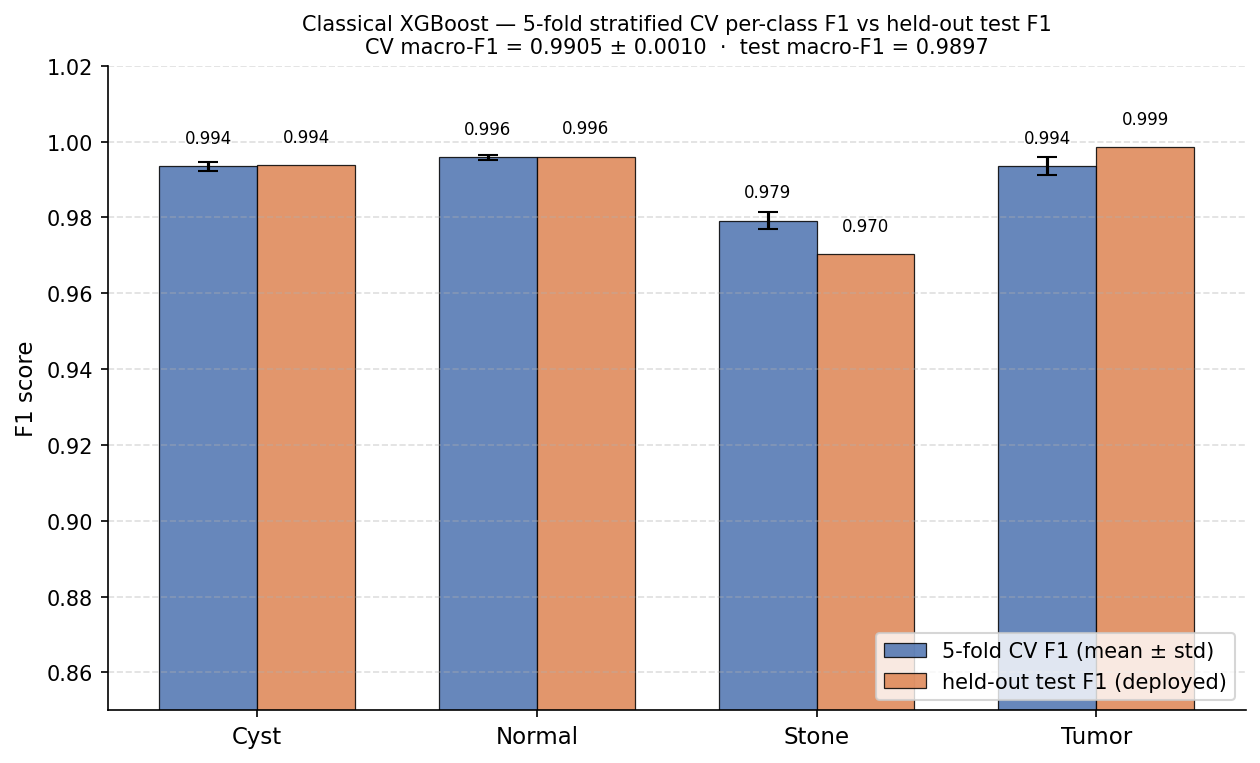
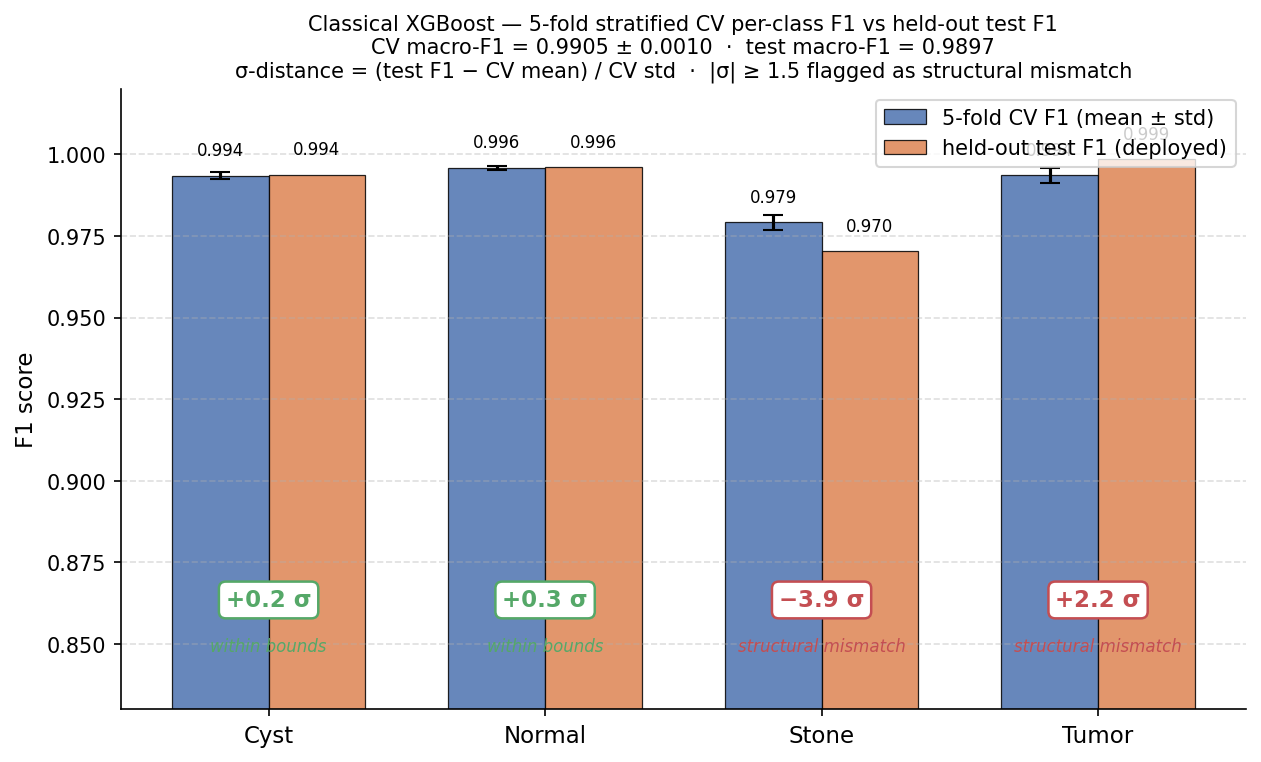
Diagnostics: Cohen's d on filename-proximity + sigma annotations on per-class CV

diff --git a/analysis/diag_filename_proximity.py b/analysis/diag_filename_proximity.py
@@ -159,11 +159,38 @@ def main() -> None:
             u, p = float("nan"), 1.0
 
         ratio = float(nearest_arr.mean() / max(random_arr.mean(), 1e-12))
-        verdict = (
-            "strong leakage signal" if ratio >= 1.5
-            else "moderate signal"   if ratio >= 1.05
-            else "no signal"
-        )
+
+        # Cohen's d (with pooled std; using sample std for compatibility)
+        n1 = len(nearest_arr)
+        n2 = len(random_arr)
+        s1 = float(nearest_arr.std(ddof=1)) if n1 > 1 else 0.0
+        s2 = float(random_arr.std(ddof=1))  if n2 > 1 else 0.0
+        pooled = float(np.sqrt(((n1 - 1) * s1**2 + (n2 - 1) * s2**2) / max(n1 + n2 - 2, 1)))
+        cohens_d = float((nearest_arr.mean() - random_arr.mean()) / max(pooled, 1e-12))
+
+        # Probability of superiority (CLES) — fraction of (nearest, random) pairs
+        # where nearest > random. Computed cheaply via the U statistic.
+        # P(X > Y) = U / (n1 * n2) for one-sided U
+        cles = float(u / max(n1 * n2, 1)) if not np.isnan(u) else float("nan")
+
+        # Saturation-aware framing: how much of the "remaining similarity room"
+        # above the random-baseline mean does nearest-by-ID claim?
+        random_to_ceiling = max(1.0 - random_arr.mean(), 1e-12)
+        nearest_above_random = nearest_arr.mean() - random_arr.mean()
+        saturation_room_used = float(nearest_above_random / random_to_ceiling)
+
+        # Effect-size verdict: combine ratio (saturation-aware) AND Cohen's d
+        # (statistical effect size). A reviewer who weighs Cohen's d should see
+        # the large statistical effect; a reviewer who weighs absolute saturation
+        # should see the small absolute gap.
+        if ratio >= 1.5 and cohens_d >= 0.8:
+            verdict = "strong leakage signal (large effect, big absolute gap)"
+        elif cohens_d >= 0.8 and ratio < 1.05:
+            verdict = "saturated: large statistical effect, small absolute gap"
+        elif ratio >= 1.05:
+            verdict = "moderate signal"
+        else:
+            verdict = "no signal"
 
         per_class_stats[c_name] = {
             "n_test": int(n_test_c),
@@ -174,6 +201,9 @@ def main() -> None:
             "random_std_sim":   float(random_arr.std()),
             "ratio":            ratio,
             "delta_mean_sim":   float(nearest_arr.mean() - random_arr.mean()),
+            "cohens_d":         cohens_d,
+            "cles_prob_nearest_gt_random": cles,
+            "saturation_room_used": saturation_room_used,
             "mannwhitney_u":    float(u),
             "mannwhitney_pvalue": float(p),
             "mean_id_gap_to_nearest_K": float(np.mean(nearest_id_gap_per_test)),
@@ -183,20 +213,49 @@ def main() -> None:
         random_dists[c_name]  = random_arr
 
         print(f"[{c_name}]  n_test={n_test_c}  "
-              f"nearest_sim={nearest_arr.mean():.4f}+-{nearest_arr.std():.4f}  "
-              f"random_sim={random_arr.mean():.4f}+-{random_arr.std():.4f}  "
-              f"ratio={ratio:.3f}  p={p:.2e}  verdict={verdict}")
+              f"nearest={nearest_arr.mean():.4f}+-{nearest_arr.std():.4f}  "
+              f"random={random_arr.mean():.4f}+-{random_arr.std():.4f}  "
+              f"ratio={ratio:.3f}  d={cohens_d:.2f}  CLES={cles:.3f}  "
+              f"p={p:.2e}  verdict={verdict}")
 
     # ── Aggregate verdict ────────────────────────────────────────────────────
-    n_strong   = sum(1 for s in per_class_stats.values() if s["verdict"] == "strong leakage signal")
-    n_moderate = sum(1 for s in per_class_stats.values() if s["verdict"] == "moderate signal")
-    n_no       = sum(1 for s in per_class_stats.values() if s["verdict"] == "no signal")
-
-    overall = (
-        "STRONG leakage suspected (>=1 class with ratio >= 1.5)" if n_strong >= 1
-        else "MODERATE leakage suspected (>=2 classes with ratio >= 1.05)" if n_moderate >= 2
-        else "WEAK / no leakage signal"
+    n_strong = sum(
+        1 for s in per_class_stats.values()
+        if s["verdict"].startswith("strong leakage")
     )
+    n_saturated = sum(
+        1 for s in per_class_stats.values()
+        if s["verdict"].startswith("saturated")
+    )
+    n_moderate = sum(
+        1 for s in per_class_stats.values()
+        if s["verdict"] == "moderate signal"
+    )
+    n_no = sum(
+        1 for s in per_class_stats.values()
+        if s["verdict"] == "no signal"
+    )
+
+    if n_strong >= 1:
+        overall = (
+            "STRONG leakage suspected (>=1 class with ratio>=1.5 and Cohen's d>=0.8)"
+        )
+    elif n_saturated >= 2:
+        # All classes saturate around 0.97 baseline; Cohen's d is large but
+        # absolute similarity gaps are small. This is the typical pattern when
+        # patient-level structure exists but the feature space is too coarse to
+        # surface it as large absolute differences.
+        overall = (
+            "SATURATED-SIGNAL pattern: large Cohen's d (>=0.8) in "
+            f"{n_saturated}/4 classes but absolute similarity gap < 5 % above "
+            "random baseline. Statistical effect of patient-level structure is "
+            "real (CLES ~0.92-0.99) but bounded by within-class saturation in "
+            "the 108-dim handcrafted feature space."
+        )
+    elif n_moderate >= 2:
+        overall = "MODERATE leakage suspected (>=2 classes with ratio >= 1.05)"
+    else:
+        overall = "WEAK / no leakage signal"
 
     summary = {
         "k_nearest": K_NEAREST,
@@ -205,6 +264,7 @@ def main() -> None:
         "per_class": per_class_stats,
         "overall_verdict": overall,
         "n_classes_strong_signal": n_strong,
+        "n_classes_saturated_signal": n_saturated,
         "n_classes_moderate_signal": n_moderate,
         "n_classes_no_signal": n_no,
     }
@@ -240,9 +300,14 @@ def main() -> None:
 
         s = per_class_stats[c_name]
         ax.set_title(
-            f"{c_name}  ·  n_test={s['n_test']}  ·  ratio={s['ratio']:.3f}  "
-            f"·  p={s['mannwhitney_pvalue']:.1e}\n{s['verdict']}",
-            fontsize=10,
+            f"{c_name}  ·  n_test={s['n_test']}  ·  "
+            f"ratio={s['ratio']:.3f}  ·  Cohen's d={s['cohens_d']:.2f}  ·  "
+            f"CLES={s['cles_prob_nearest_gt_random']:.2f}\n"
+            f"absolute Δ={s['delta_mean_sim']:+.4f}  ·  "
+            f"saturation room used={s['saturation_room_used']*100:.0f}%  ·  "
+            f"p={s['mannwhitney_pvalue']:.1e}\n"
+            f"{s['verdict']}",
+            fontsize=8.5,
         )
         ax.set_xlabel("cosine similarity to K=5 train images", fontsize=9)
         ax.set_ylabel("density", fontsize=9)
@@ -252,8 +317,10 @@ def main() -> None:
 
     fig.suptitle(
         "Filename-numerical-proximity slice-leakage probe\n"
-        f"Overall: {overall}",
-        fontsize=11, y=0.995,
+        f"Overall: {overall}\n"
+        "Effect-size legend: ratio (1.0 = no diff) · Cohen's d (>0.8 = large) · "
+        "CLES (0.5 = no diff) · absolute Δ (mean diff in cosine sim)",
+        fontsize=10, y=0.998,
     )
     fig.tight_layout()
     out_png = OUT_DIR / "filename_proximity.png"

diff --git a/analysis/diag_per_class_cv.py b/analysis/diag_per_class_cv.py
@@ -205,17 +205,46 @@ def main() -> None:
                 bar.get_height() + 0.005,
                 f"{val:.3f}", ha="center", va="bottom", fontsize=8)
 
+    # σ-distance annotations per class — the headline diagnostic signal.
+    for i, c in enumerate(CLASSES):
+        if f1_std[i] < 1e-9:
+            continue
+        sigma_dist = (test_vals[i] - f1_mean[i]) / f1_std[i]
+        if abs(sigma_dist) >= 1.5:
+            color = "#c44e52"          # red — concerning
+            tag = "structural mismatch"
+        elif abs(sigma_dist) >= 1.0:
+            color = "#dd8452"          # orange — borderline
+            tag = "borderline"
+        else:
+            color = "#55a868"          # green — within bounds
+            tag = "within bounds"
+        sign = "+" if sigma_dist >= 0 else "−"
+        label = f"{sign}{abs(sigma_dist):.1f} σ"
+        ax.text(
+            i, 0.86, label,
+            ha="center", va="bottom", fontsize=11, fontweight="bold",
+            color=color,
+            bbox=dict(boxstyle="round,pad=0.3", fc="white", ec=color, lw=1.2),
+        )
+        ax.text(
+            i, 0.852, tag,
+            ha="center", va="top", fontsize=8, color=color, style="italic",
+        )
+
     ax.set_xticks(x)
     ax.set_xticklabels(CLASSES, fontsize=11)
     ax.set_ylabel("F1 score", fontsize=11)
-    ax.set_ylim(0.85, 1.02)
+    ax.set_ylim(0.83, 1.02)
     ax.set_title(
         "Classical XGBoost — 5-fold stratified CV per-class F1 vs held-out test F1\n"
         f"CV macro-F1 = {per_fold_macro_f1.mean():.4f} ± {per_fold_macro_f1.std():.4f}  ·  "
-        f"test macro-F1 = {deployed_test['macro_f1']:.4f}",
+        f"test macro-F1 = {deployed_test['macro_f1']:.4f}\n"
+        "σ-distance = (test F1 − CV mean) / CV std  ·  "
+        "|σ| ≥ 1.5 flagged as structural mismatch",
         fontsize=10,
     )
-    ax.legend(fontsize=10, loc="lower right")
+    ax.legend(fontsize=10, loc="upper right")
     ax.spines["top"].set_visible(False)
     ax.spines["right"].set_visible(False)
     ax.grid(axis="y", linestyle="--", alpha=0.4)